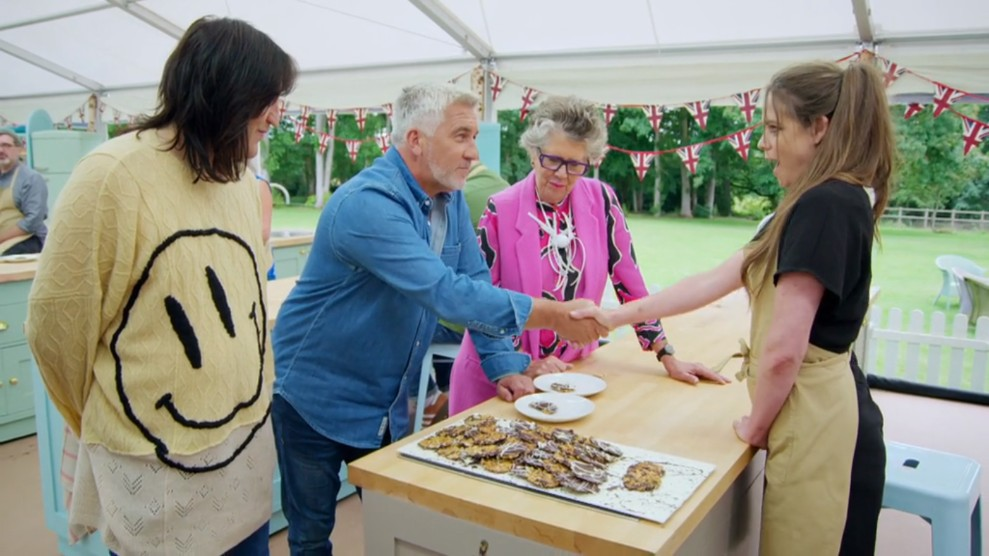
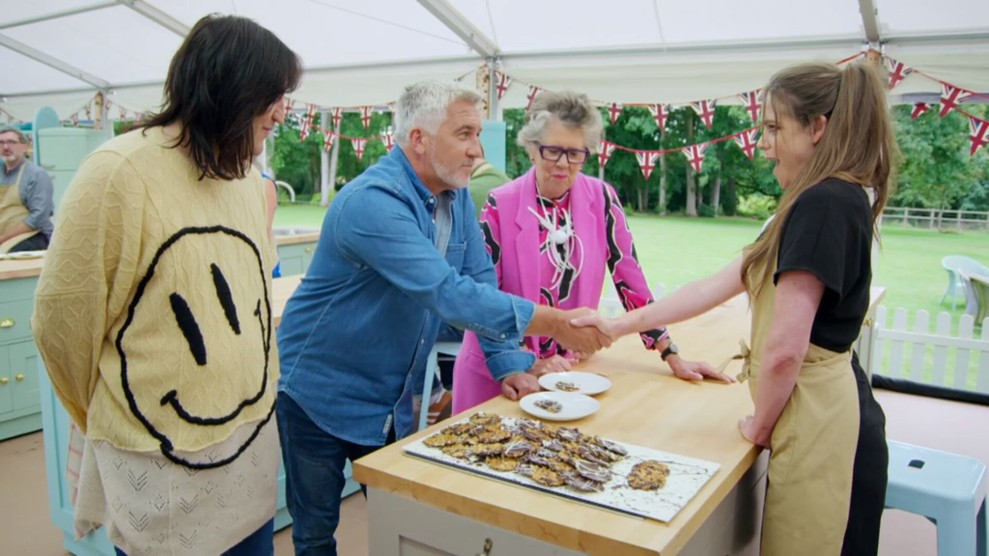
Update lottie shake to jpg

diff --git a/src/data/Season 11/episodeList.ts b/src/data/Season 11/episodeList.ts
@@ -1,9 +1,9 @@
+import { Challenge } from "../../types/constants/Challenge";
 import { Episode } from "../../types/Episode";
 import { Season11Contestants } from "../../types/constants/Season11Contestants";
-import Handshake35Large from "../../images/handshakes/Large/S11E02 - Lottie.png"
-import Handshake35Medium from "../../images/handshakes/Medium/S11E02 - Lottie.jpg"
 import Handshake35Small from "../../images/handshakes/Small/S11E02 - Lottie.jpg"
-import { Challenge } from "../../types/constants/Challenge";
+import Handshake35Medium from "../../images/handshakes/Medium/S11E02 - Lottie.jpg"
+import Handshake35Large from "../../images/handshakes/Large/S11E02 - Lottie.jpg"
 
 
 export const episodeList: Episode[] = [
